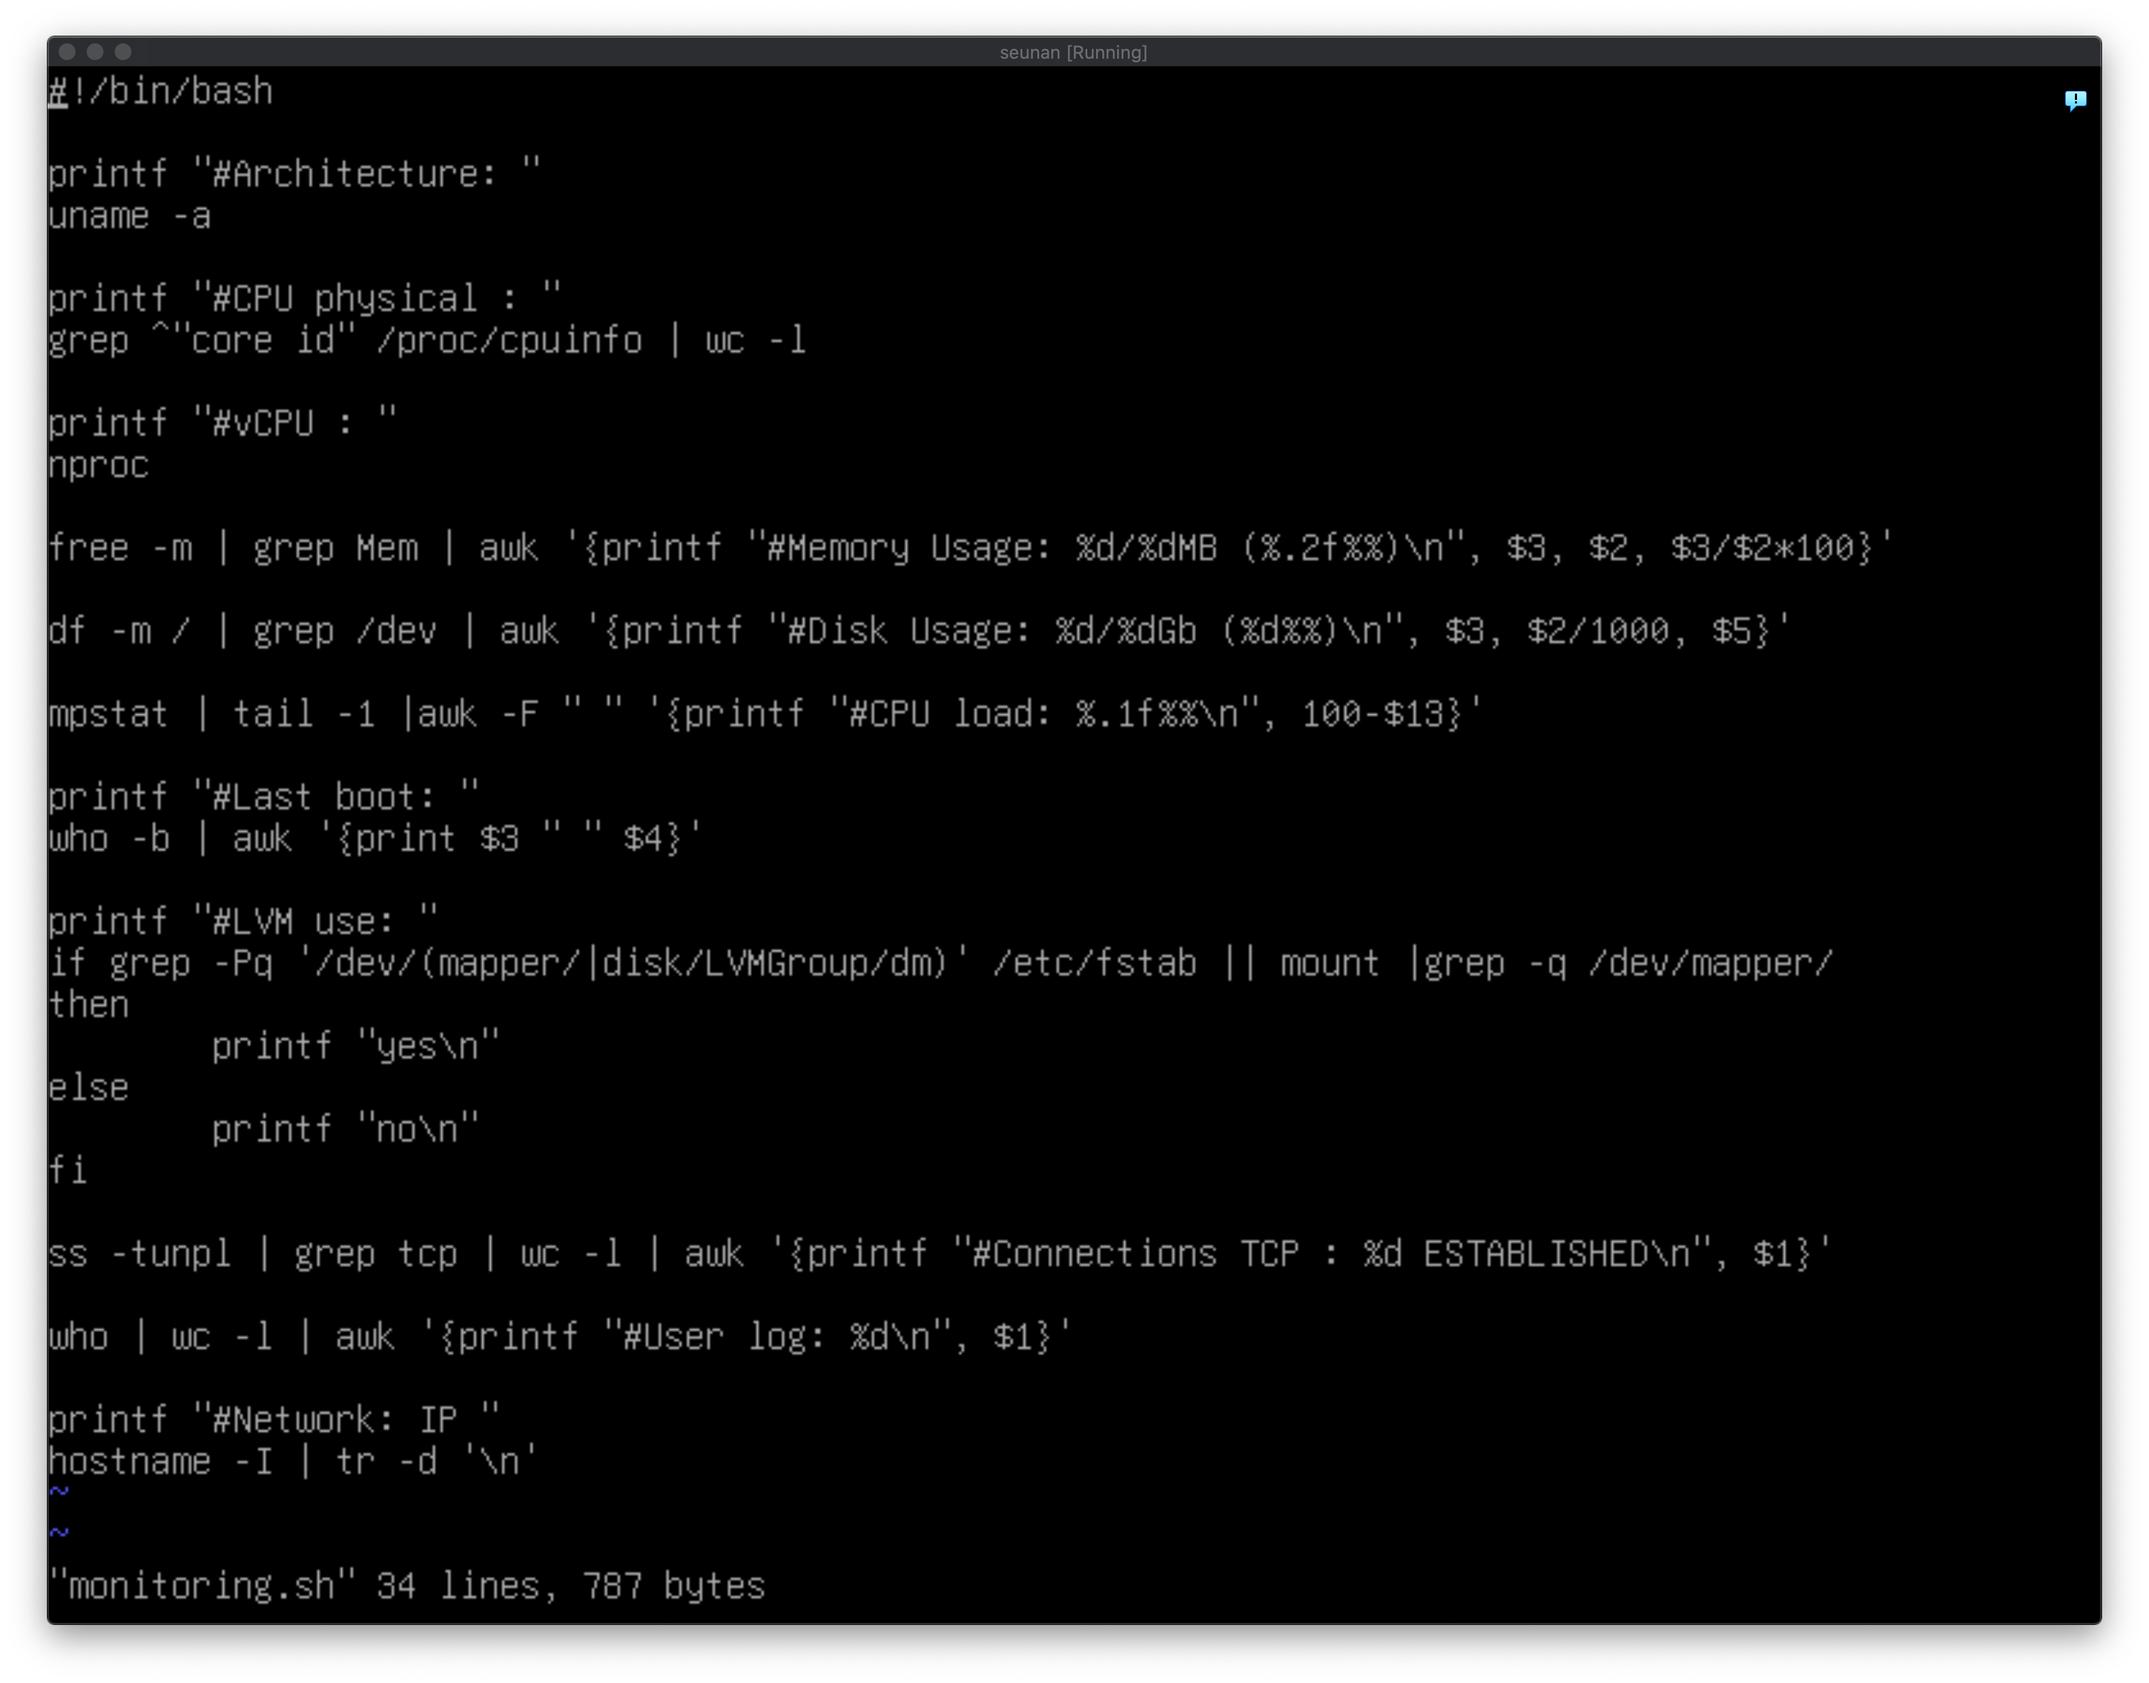
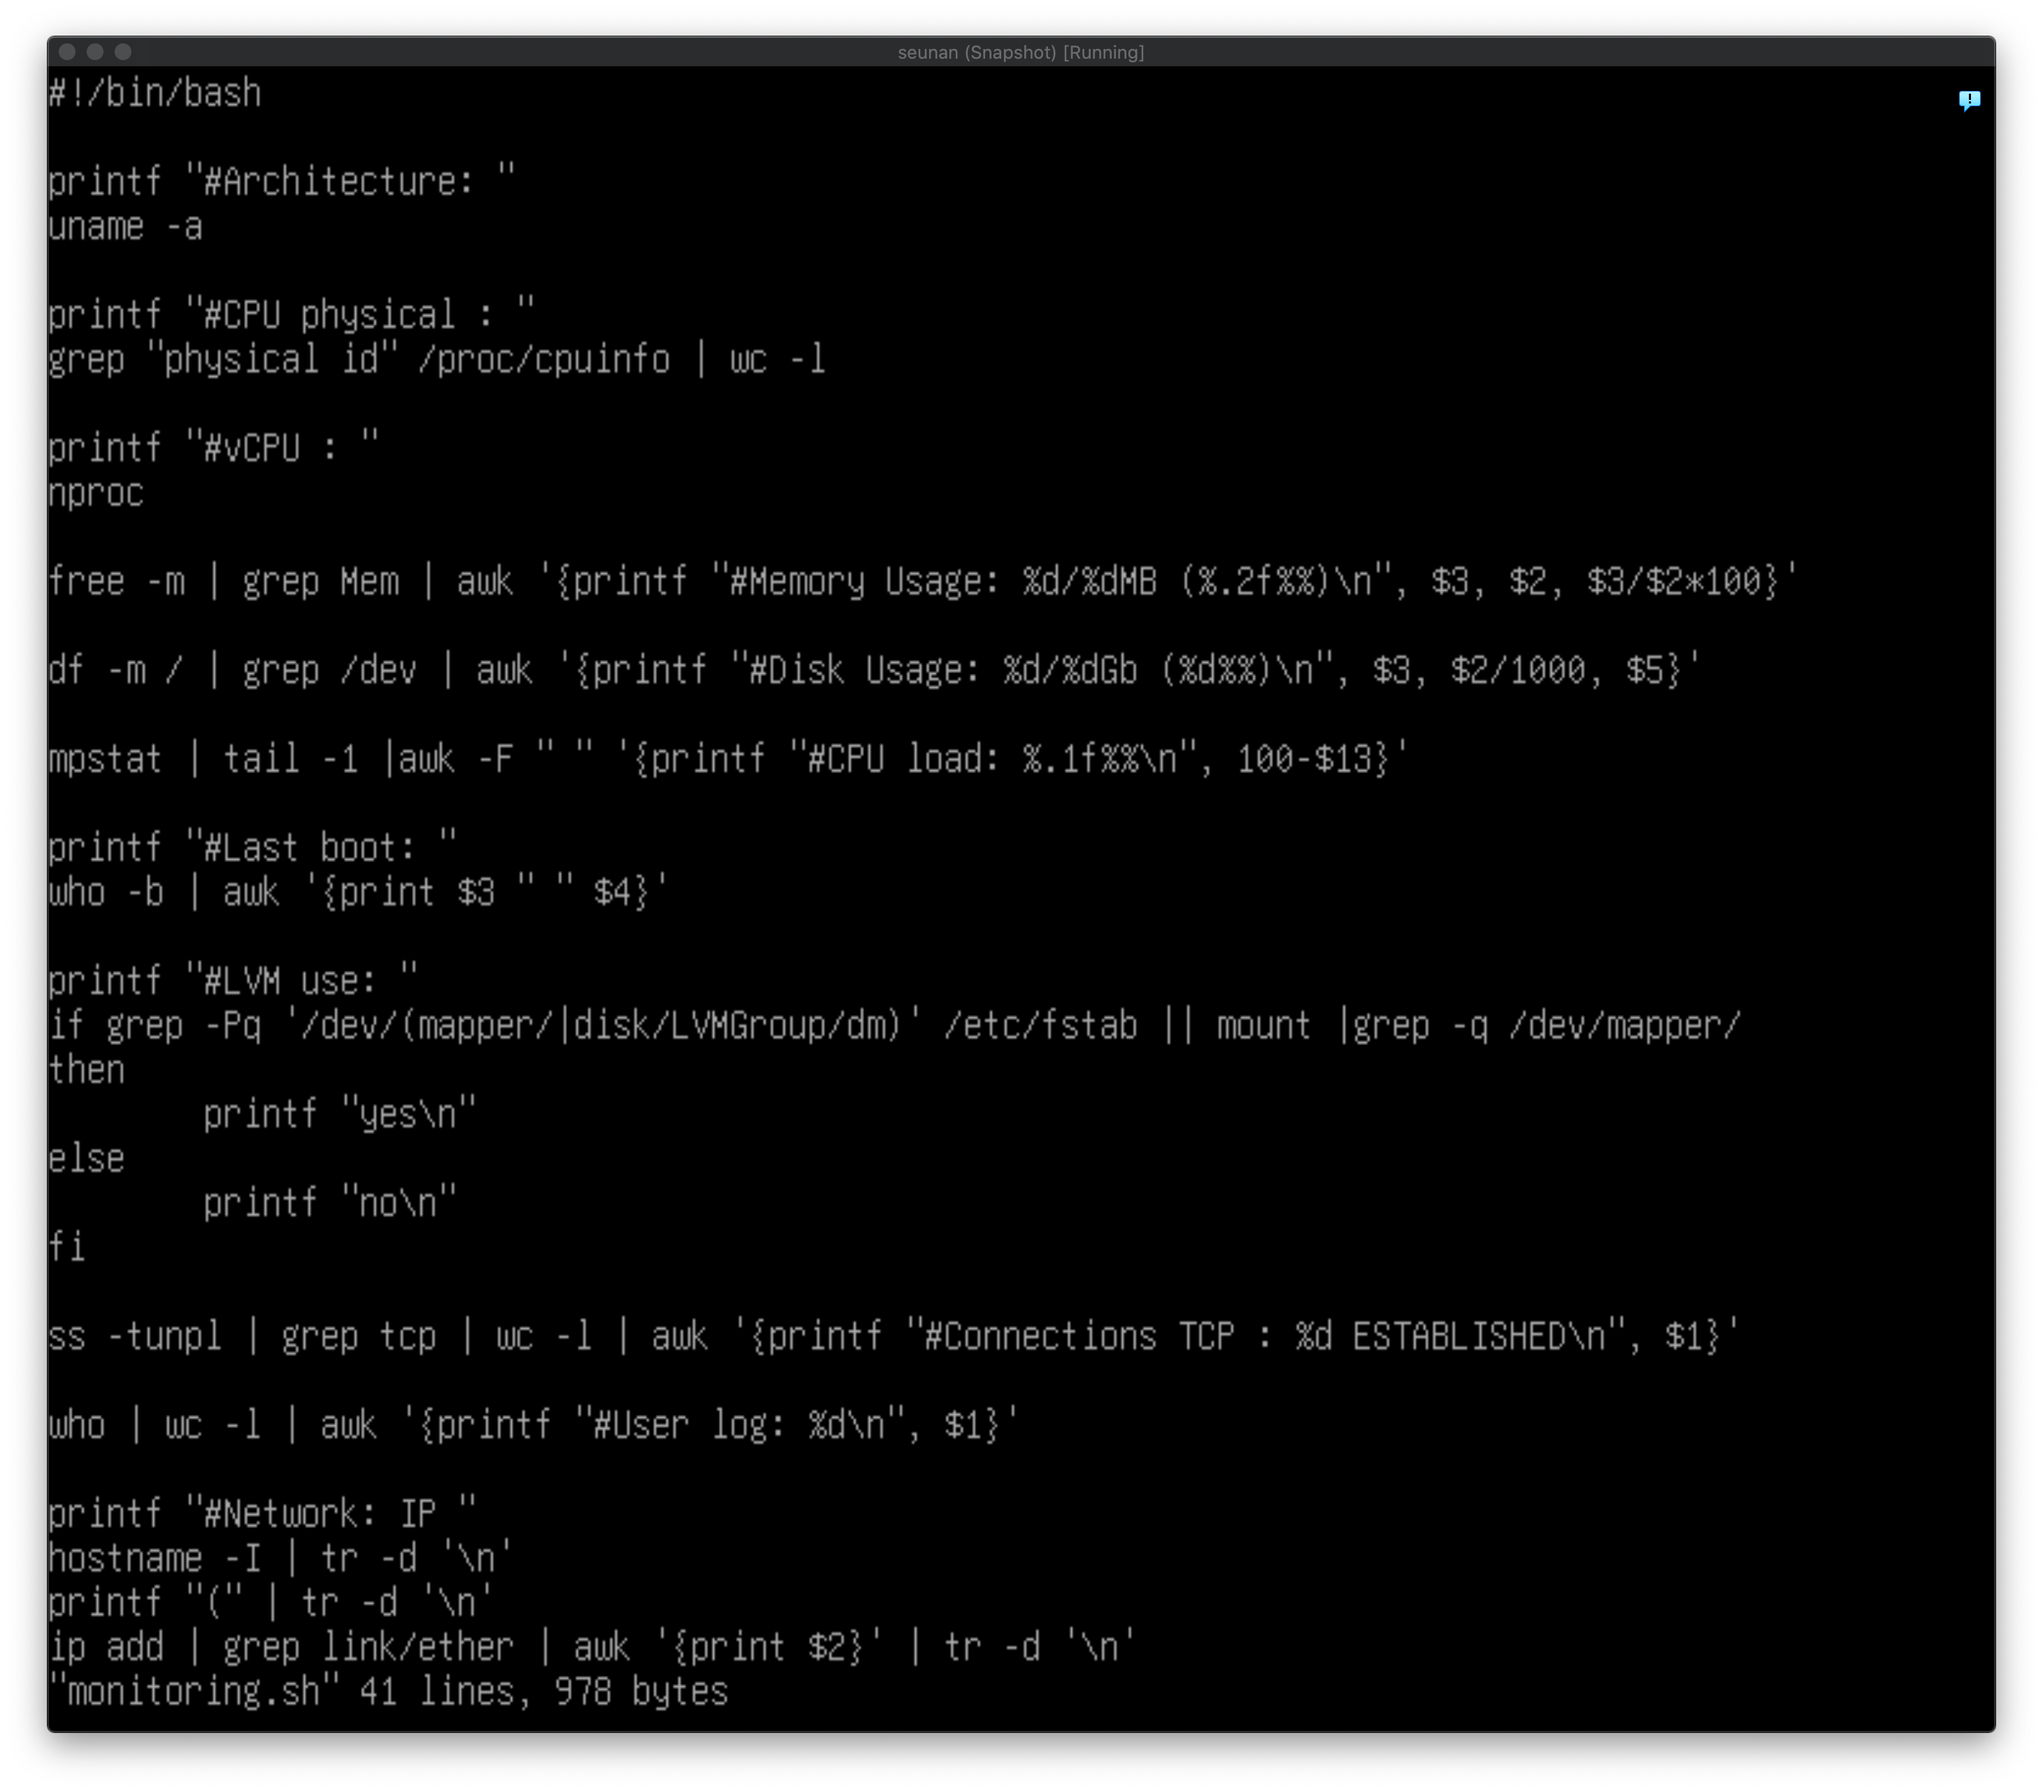
토요일 본투비 끝내기

diff --git a/1_born2beroot/readme.md b/1_born2beroot/readme.md
@@ -90,6 +90,7 @@ LVM은 파티션의 상위호환이라고 생각하면 쉽다.
 LVM을 활용하면 1번 항목의 이점으로 인해 확장이 쉬워진다.
 
 - [lvm 이란 매우 쉽게!](https://mamu2830.blogspot.com/2019/12/lvmpv-vg-lv-pe-lvm.html)
+- [LVM (Logical Volume Manager) 관리](https://access.redhat.com/documentation/ko-kr/red_hat_enterprise_linux/6/html-single/logical_volume_manager_administration/index#LVM_components)
 
 ## Package Manager
 
@@ -118,7 +119,7 @@ LVM을 활용하면 1번 항목의 이점으로 인해 확장이 쉬워진다.
 
 |DISTRIBUTION|LOW-LEVEL TOOL|HIGH-LEVEL TOOL|
 |---|---|---|
-|Debian and derivatives|dpkg|apt-get / ptitude|
+|Debian and derivatives|dpkg|apt-get / aptitude|
 |CentOS|rpm|yum|
 |openSUSE|rmp|zypper|
 
@@ -148,7 +149,12 @@ LVM을 활용하면 1번 항목의 이점으로 인해 확장이 쉬워진다.
 	- Ubuntu 기반의 리눅스의 또 다른 high-level package manager
 	- apt-get 보다 좀 더 개선된 기능을 제공
 
-apt-get / apt-cache의 경우 패키지 repository는 /etc/apt/sources.list 에 명시되어 있다.
+```bash
+/etc/apt/sources.list # apt-get / apt-cache의 경우 패키지 repository 경로
+apt list --installaed # apt로 설치한 package list
+```
+
+
 
 - [What is APT and Aptitude](https://www.tecmint.com/difference-between-apt-and-aptitude/)
 - [aptitude vs apt-get vs apt](https://thecustomizewindows.com/2020/01/aptitude-vs-apt-get-vs-apt/)
@@ -315,9 +321,12 @@ usermod -aG sudo <username> # user에게 sudo 그룹 권한
 ![](img/45.png)
 - [sudo](https://wiki.debian.org/sudo/)
 - [sudoers](https://manpages.debian.org/bookworm/sudo-ldap/sudoers.5.en.html)
+- [How does sudo really work?](https://unix.stackexchange.com/questions/126914/how-does-sudo-really-work)
 - [Linux에서 sudo를 설정하기 위한 10가지 유용한 Sudoers 구성](https://ko.linux-console.net/?p=1985#gsc.tab=0)
+- [TTY와 PTS의 차이](https://m.blog.naver.com/PostView.naver?isHttpsRedirect=true&blogId=jangpro1003&logNo=90098910350)
 - [Why would I want to require a tty for sudo? What's the security benefit of requiring it?](https://stackoverflow.com/questions/67985925/why-would-i-want-to-require-a-tty-for-sudo-whats-the-security-benefit-of-requi)
-- [what is tty](https://itsfoss.com/what-is-tty-in-linux/)
+- [Linux environment: 환경변수](https://seulcode.tistory.com/546)
+- [Sudo 명령의 Secure Path](https://www.tuwlab.com/ece/24044)
 
 ## monitoring.sh
 ![](img/66.png)
@@ -328,26 +337,27 @@ usermod -aG sudo <username> # user에게 sudo 그룹 권한
 권한을 안주면 실행이 안된다.
 ![](img/69.png)
 - [The architecture of your operating system and its kernel version](https://www.cyberciti.biz/faq/find-print-linux-unix-kernel-version/)
-- [The number of physical processors1](https://www.cyberciti.biz/faq/check-how-many-cpus-are-there-in-linux-system/)
-- [The number of physical processors2](https://www.baeldung.com/linux/get-number-of-processors)
+- [The number of physical processors](https://xyunsikx.tistory.com/entry/%EB%A6%AC%EB%88%85%EC%8A%A4-cpu-%EC%A0%95%EB%B3%B4-%EC%A0%95%ED%99%95%ED%95%98%EA%B2%8C-%ED%99%95%EC%9D%B8%ED%95%98%EC%9E%90)
 - [The number of virtual processors](https://webhostinggeeks.com/howto/how-to-display-the-number-of-processors-vcpu-on-linux-vps/)
 - [The current available RAM on your server and its utilization rate as a percentage](https://www.2daygeek.com/linux-check-cpu-memory-swap-utilization-percentage/)
-- [The current available memory on your server and its utilization rate as a percentage](https://stackoverflow.com/questions/10585978/how-to-get-the-percentage-of-memory-free-with-a-linux-command)
-- [The current utilization rate of your processors as a percentage1](https://www.baeldung.com/linux/get-cpu-usage)
-- [The current utilization rate of your processors as a percentage2](https://stackoverflow.com/questions/9229333/how-to-get-overall-cpu-usage-e-g-57-on-linux)
+- [The current available memory on your server and its utilization rate as a percentage](https://www.cyberciti.biz/faq/linux-check-disk-space-command/)
+- [The current utilization rate of your processors as a percentage](https://stackoverflow.com/questions/9229333/how-to-get-overall-cpu-usage-e-g-57-on-linux)
 - [The date and time of the last reboot](https://www.cyberciti.biz/tips/linux-last-reboot-time-and-date-find-out.html)
 - [Whether LVM is active or not](https://askubuntu.com/questions/202613/how-do-i-check-whether-i-am-using-lvm)
 - [The number of active connections](https://serverfault.com/questions/421310/check-the-number-of-active-connections-on-port-80)
 - [The number of users using the server](https://www.computerhope.com/issues/ch001649.htm)
-- [The IPv4 address of your server and its MAC (Media Access Control) address1](https://www.howtouselinux.com/post/linux-command-get-mac-address-in-linux)
-- [The IPv4 address of your server and its MAC (Media Access Control) address2](https://www.baeldung.com/linux/get-mac-address)
+- [The IPv4 address of your server and its MAC (Media Access Control) address](https://www.baeldung.com/linux/get-mac-address)
 - [The number of commands executed with the sudo program](https://unix.stackexchange.com/questions/167935/details-about-sudo-commands-executed-by-all-user)
+- [What is Virtual Processor or vCPU?](https://www.accuwebhosting.com/blog/what-is-virtual-processor-or-vcpu/)
 
 ### crontab
 ![](img/70.png)
 ```bash
 crontab -e
-vi /etc/crontab
+vi /etc/crontab # crontab 사용법
+systemctl cron start
+systemctl cron stop
+systemctl cron status
 
 * * * * * {실행 명령} or /1 * * * * {실행 명령} # 매 분마다 실행
 
@@ -355,14 +365,11 @@ vi /etc/crontab
 0 0 * * 1 {실행 명령} # 매주 월요일 자정에 실행
 0 0 5 * * {실행 명령} # 매달 5일 자정에 실행
 25,55 * * * * {실행 명령} # 매시 25분, 55분에 실행
-*/15 * * * * {실행 명령} # 15분마다 실행\
+*/15 * * * * {실행 명령} # 15분마다 실행
 0 3 * * * {실행 명령} # 매일 3시에 실행
 30 */6 * * * {실행 명령} # 매 6시간마다(00:30, 06:30, 12:30, 18:30) 실행
 0 6 * * 1-6 {실행 명령} # 평일(월요일~토요일) 06:00에 실행
 0 7 * * 6 {실행 명령} # 토요일 07:00에 실행
-systemctl cron start
-systemctl cron stop
-systemctl cron status
 ```
 
 - [크론 (Cron) 크론탭(Crontab) 사용법](https://asufi.tistory.com/entry/Linux-%ED%81%AC%EB%A1%A0-Cron-%ED%81%AC%EB%A1%A0%ED%83%ADCrontab-%EC%82%AC%EC%9A%A9%EB%B2%95)
@@ -376,12 +383,3 @@ systemctl cron status
 - [shell if](https://serverfault.com/questions/50585/whats-the-best-way-to-check-if-a-volume-is-mounted-in-a-bash-script)
 - [shell printf](https://phoenixnap.com/kb/bash-printf)
 - [shell awk](https://recipes4dev.tistory.com/171#recentEntries)
----
-## 추가로 공부해야하는 부분
-- [버츄얼cpu와 피지컬cpu의 구분](https://www.accuwebhosting.com/blog/what-is-virtual-processor-or-vcpu/)
-- [피지컬 cpu 틀림](https://xyunsikx.tistory.com/entry/%EB%A6%AC%EB%88%85%EC%8A%A4-cpu-%EC%A0%95%EB%B3%B4-%EC%A0%95%ED%99%95%ED%95%98%EA%B2%8C-%ED%99%95%EC%9D%B8%ED%95%98%EC%9E%90)
-- [env명령어와 PATH](https://seulcode.tistory.com/546)
-- [sudo의 secure path](https://www.tuwlab.com/ece/24044)
-- [How does sudo really work?](https://unix.stackexchange.com/questions/126914/how-does-sudo-really-work)
-- [TTY 와 PTS 의 차이](https://m.blog.naver.com/PostView.naver?isHttpsRedirect=true&blogId=jangpro1003&logNo=90098910350)
-- sudo ps와 ps 명령어 결과가 다르다.
